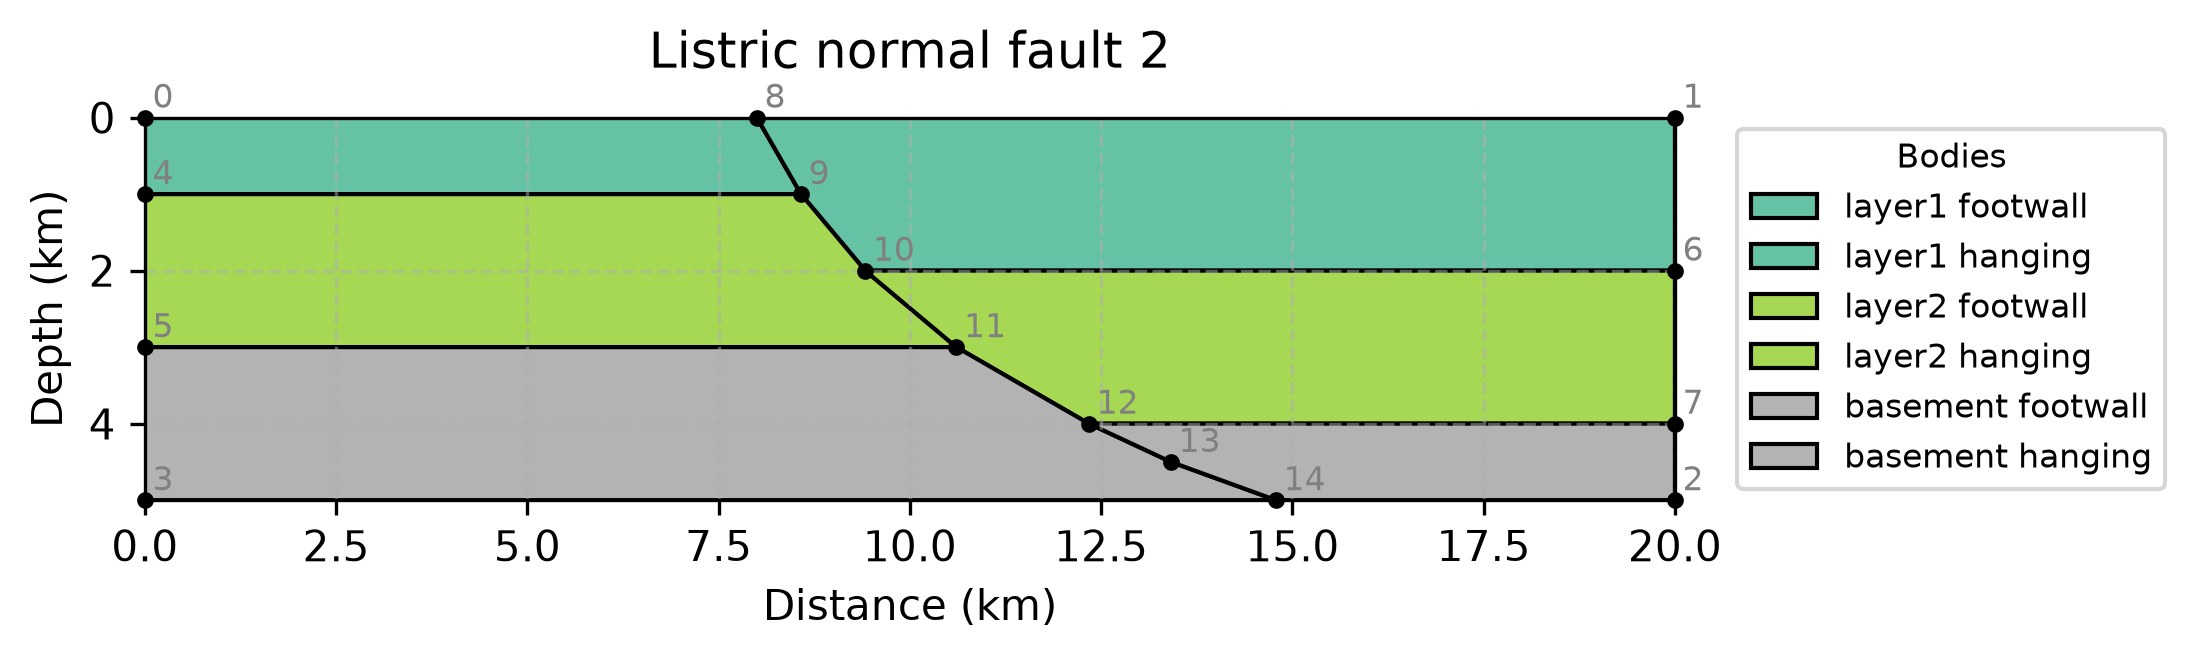
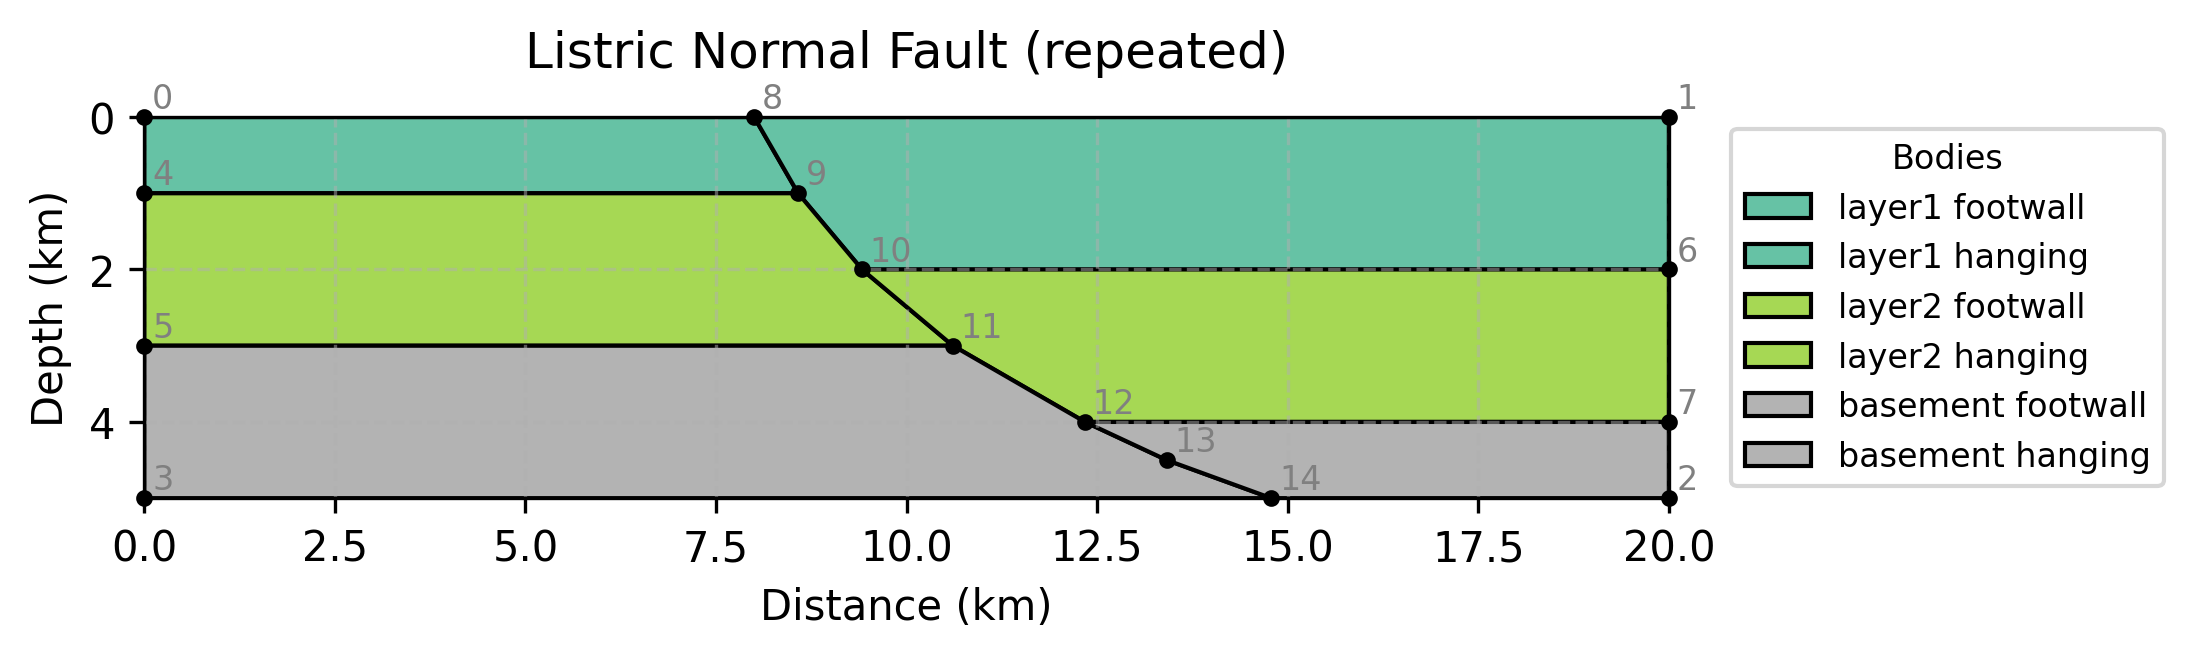
Added examples and updated plots

diff --git a/examples/plot_examples.py b/examples/plot_examples.py
@@ -25,17 +25,21 @@ DEFAULT_OPTIONS = {
 
 # Add or change options here to customize an individual example.
 PLOT_OPTIONS = {
-    "example_laccolith_dyke_2.txt": {"title": "Laccolith and dyke"},
-    "example_listric_normal_fault.txt": {"title": "Listric normal fault"},
-    "example_listric_normal_fault_2.txt": {"title": "Listric normal fault 2"},
+    "example_single_layer.txt": {"title": "Simple cross section with a single layer"},
+    "example_two_layers.txt": {"title": "Two Horizontal Layers"},
+    "example_salt_diapir.txt": {"title": "Salt Diapir"},
+    "example_listric_normal_fault.txt": {"title": "Listric Normal Fault"},
+    "example_listric_normal_fault_2.txt": {"title": "Listric Normal Fault (repeated)"},
     "example_listric_normal_fault_2_refined.txt": {
-        "title": "Refined listric normal fault"
+        "title": "Refined Listric Normal Fault: Rollover Added", "vertex_font_size": 6, "vertex_size": 2
     },
     "example_listric_normal_fault_2_refined_2.txt": {
-        "title": "Refined listric normal fault 2", "vertex_font_size": 6, "vertex_size": 2
+        "title": "Refined Listric Normal Fault: Second Fault Added", "vertex_font_size": 6, "vertex_size": 2
     },
-    "example_prograding_delta.txt": {"title": "Prograding delta", "vertex_font_size": 6, "vertex_size": 2, "legend_padding": 0.2},
-    "example_syn-rift_half-graben.txt": {"title": "Syn-rift half-graben", "legend_padding": 0.1, "font_size": 6, "vertex_font_size": 5, "line_width": 0.7, "vertex_size": 2},
+    "example_laccolith_dyke.txt": {"title": "Laccolith Dyke Intrusion", "vertex_font_size": 6, "vertex_size": 2},
+        "example_laccolith_dyke_2.txt": {"title": "Laccolith Dyke Intrusion (repeated)", "vertex_font_size": 6, "vertex_size": 2},
+    "example_prograding_delta.txt": {"title": "Prograding Delta", "vertex_font_size": 6, "vertex_size": 2, "legend_padding": 0.2},
+    "example_syn-rift_half-graben.txt": {"title": "Syn-rift Half-graben", "legend_padding": 0.1, "font_size": 6, "vertex_font_size": 5, "line_width": 0.7, "vertex_size": 2},
 }
 
 
